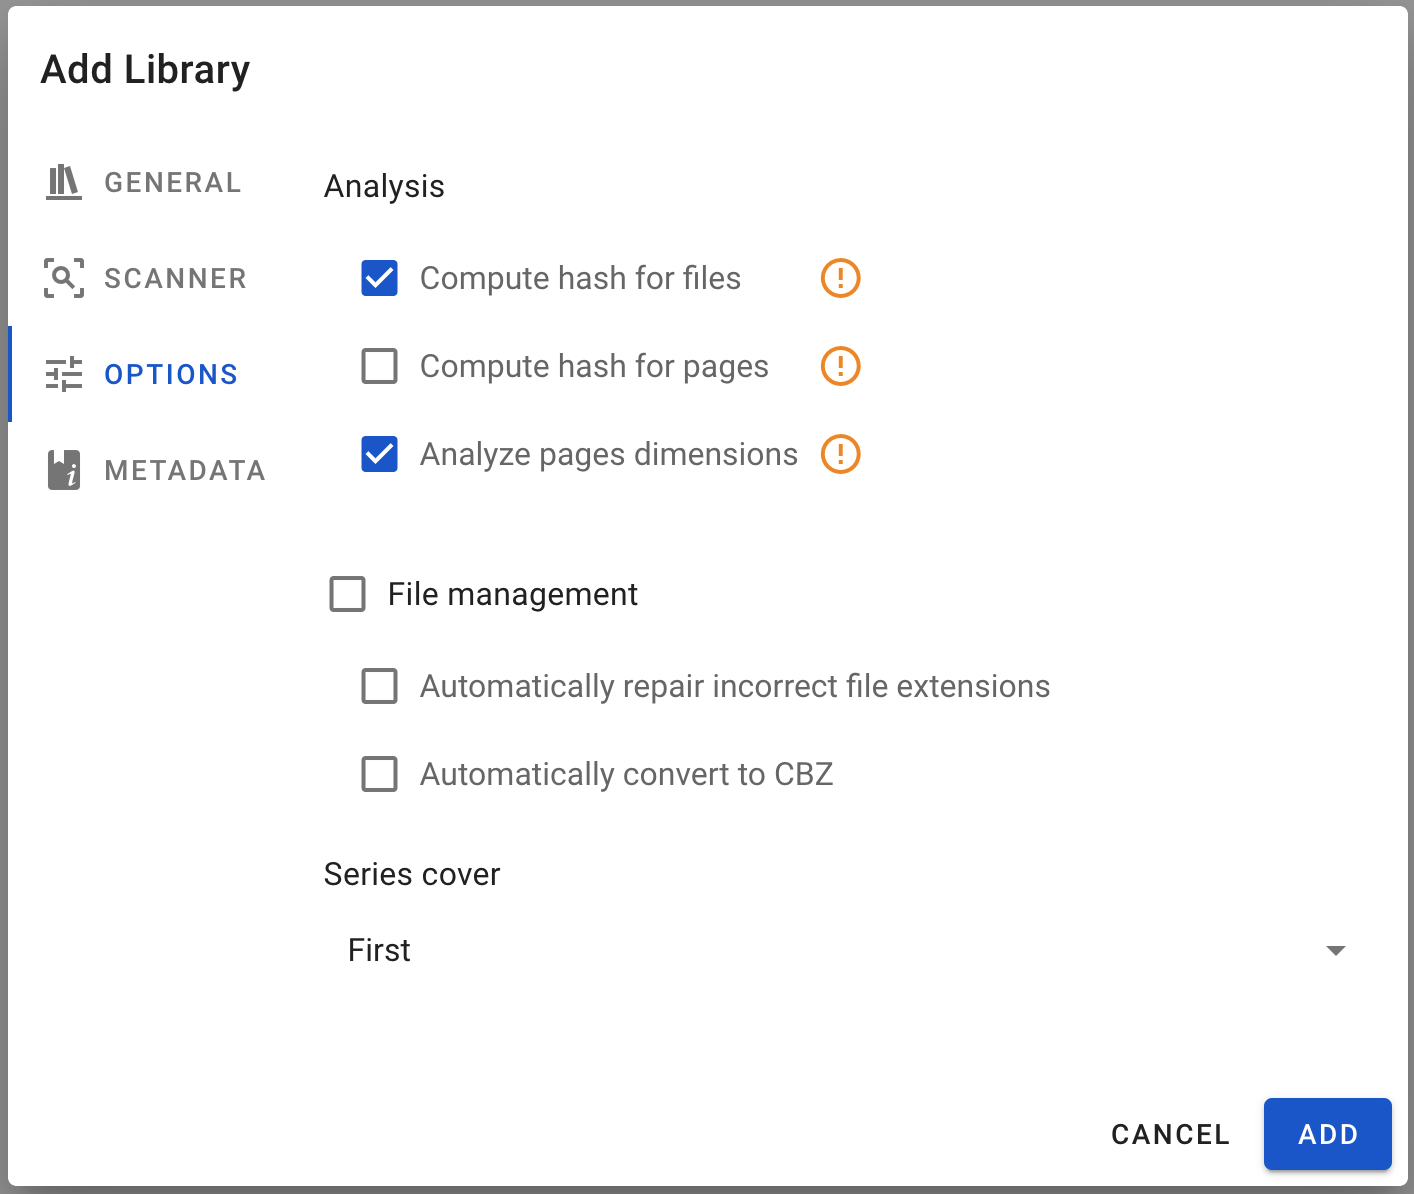
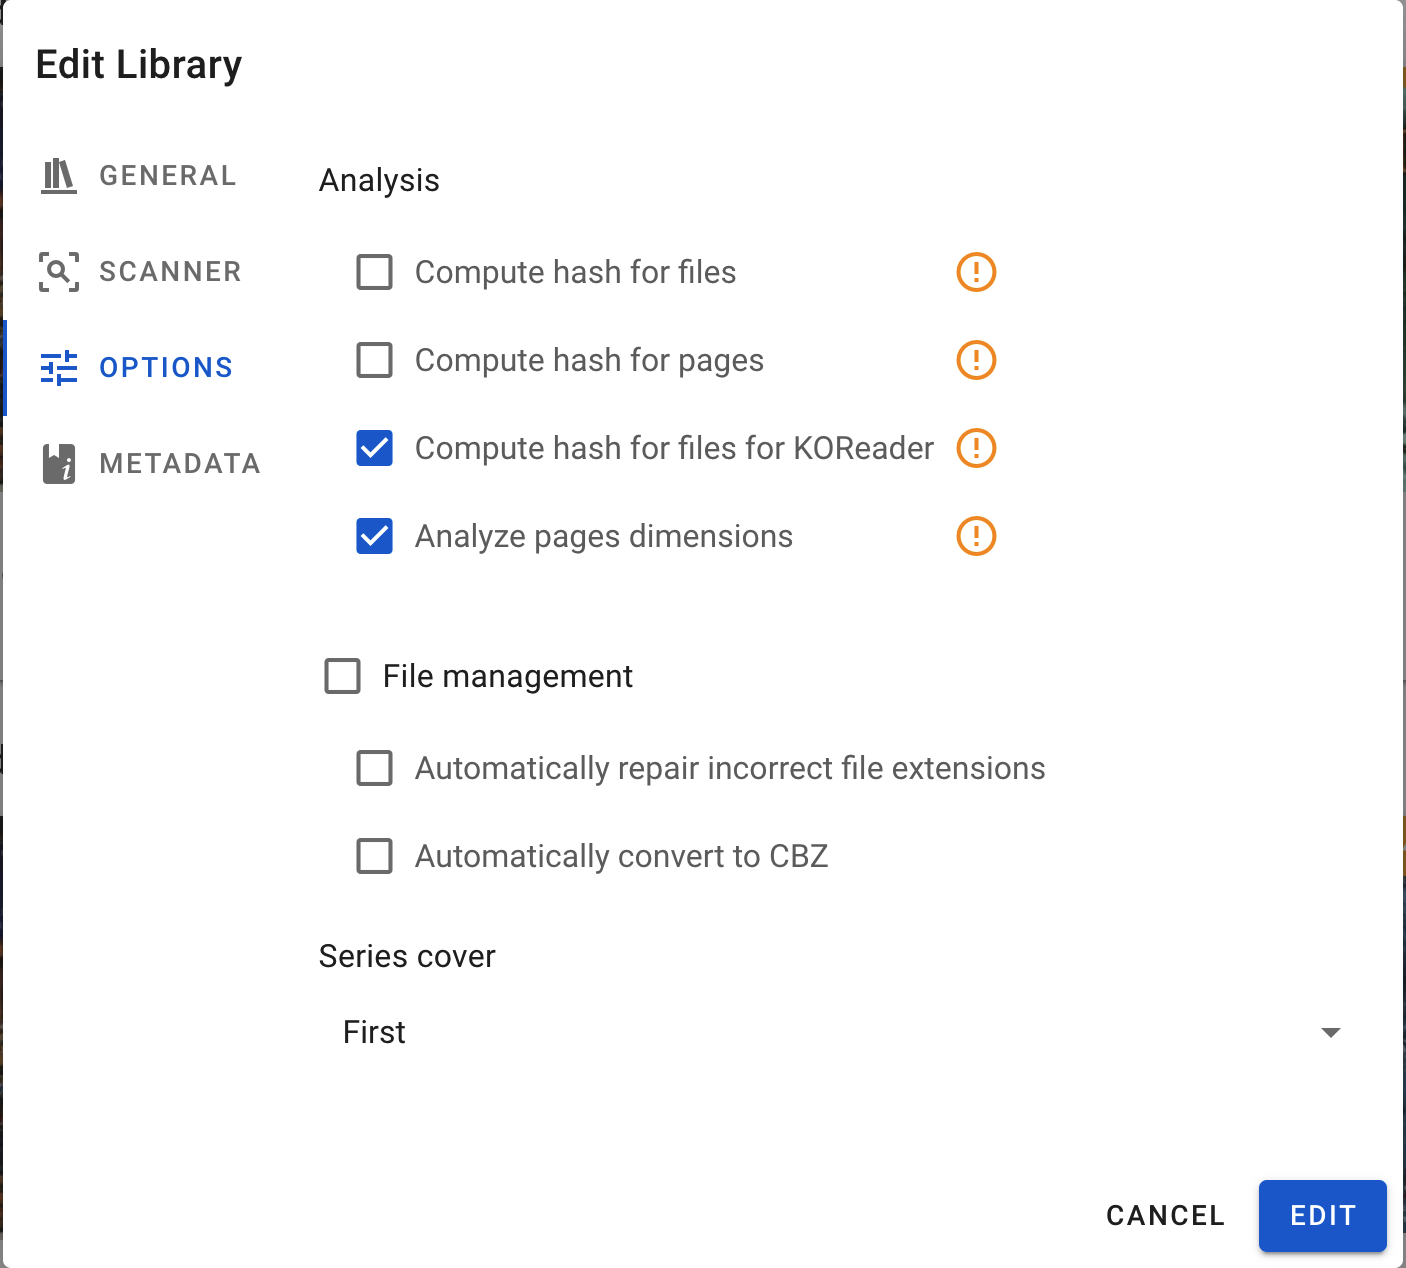
docs: koreader

diff --git a/website/sidebars.js b/website/sidebars.js
@@ -105,6 +105,7 @@ const sidebars = {
                         'guides/webreader',
                         'guides/mihon',
                         'guides/kobo',
+                        'guides/koreader',
                         'guides/paperback',
                         'guides/cdisplayex',
                         'guides/opds',

diff --git a/website/docs/guides/koreader.md b/website/docs/guides/koreader.md
@@ -1,0 +1,49 @@
+# Read with KOReader
+
+[KOReader](https://koreader.rocks) can access Komga using [OPDS v1](./opds.md#opds-v1).
+
+## Read progress sync
+
+Read progress syncs in the following way:
+- For pre-paginated books, the read progress will be accurate per page.
+- For regular EPUB books, rhe read progress will be tracker at the beginning of a chapter, not within a chapter. Mid-chapter read progress will be lost when switching from KOReader to Komga or Komga to KOReader.
+
+## Configuration
+
+In order to use KOReader Sync with Komga, a Komga user must have the role `KOREADER_SYNC`.
+
+You also need to enable file hashing for KOReader, see [here](libraries.md#compute-hash-for-files-for-koreader) for more details.
+
+### Generate API key
+
+The KOReader Sync Komga API uses a dedicated set of endpoints which require an API key to be accessed. Users can generate API keys from the _Account Settings_ page. Make sure to write down the generated key, as it won't be shown afterwards.
+
+If you have multiple KOReader devices, it is recommended to use a different API key for each.
+
+### Setup KOReader
+
+1. In the KOReader menu, go to _Progress sync_.
+    <img src="/assets/media/guides/koreader/koreader-progress-sync-menu.png" style={{maxHeight: '200px'}} alt="Progress sync menu in KOReader"/>
+
+2. Click on _Custom sync server_.
+    <img src="/assets/media/guides/koreader/koreader-custom-sync-server.png" style={{maxHeight: '70px'}} alt="Progress sync menu in KOReader"/>
+
+3. Enter your server address, following with `/koreader`. For example: `https://demo.komga.org/koreader`
+
+4. Click on _Register / Login_.
+   <img src="/assets/media/guides/koreader/koreader-sync-server-login.png" style={{maxHeight: '100px'}} alt="Progress sync menu in KOReader"/>
+
+5. In the _Register/login_ dialog, input the following:
+    <img src="/assets/media/guides/koreader/koreader-sync-server-login-dialog.png" style={{maxHeight: '180px'}} alt="Progress sync menu in KOReader"/>
+    - _username_: the Komga API key
+    - _password_: any dummy value, this field is not used by Komga
+
+6. Click on _Login_.
+
+## Troubleshooting
+
+### Komga logs
+
+Komga can log all incoming HTTP requests, including headers and body, by setting `logging.level.org.springframework.web.filter.CommonsRequestLoggingFilter` to `DEBUG`.
+
+You can also access the recent HTTP exchanges under the `/actuator/httpexchanges` endpoint on your Komga server.

diff --git a/website/docs/guides/libraries.md b/website/docs/guides/libraries.md
@@ -92,6 +92,12 @@ Komga will compute a filehash for the first and last 3 pages in each book (`cbz`
 
 This can consume lots of resources on large libraries or slow hardware.
 
+##### Compute hash for files for KOReader
+
+Komga will compute a KOReader filehash for your files. This is required for the [KOReader Sync](koreader.md) functionality to work.
+
+This can consume lots of resources on large libraries or slow hardware.
+
 ##### Analyze page dimensions
 
 Komga will retrieve each page's dimensions (width and height). This is useful for:

diff --git a/website/docs/guides/read-progress.md b/website/docs/guides/read-progress.md
@@ -16,7 +16,11 @@ Mihon can track progress of read books, using the Komga tracker. See [here](miho
 
 ### CDisplayEx
 
-CDisplayEx syncs read status and reading progress, See [here](cdisplayex.md#reading-status).
+CDisplayEx syncs read status and reading progress. See [here](cdisplayex.md#reading-status) for more details.
+
+### KOReader
+
+KOReader can sync read status and reading progress. See [here](koreader.md#read-progress-sync) for more details.
 
 ## Unread and in progress indicators
 
